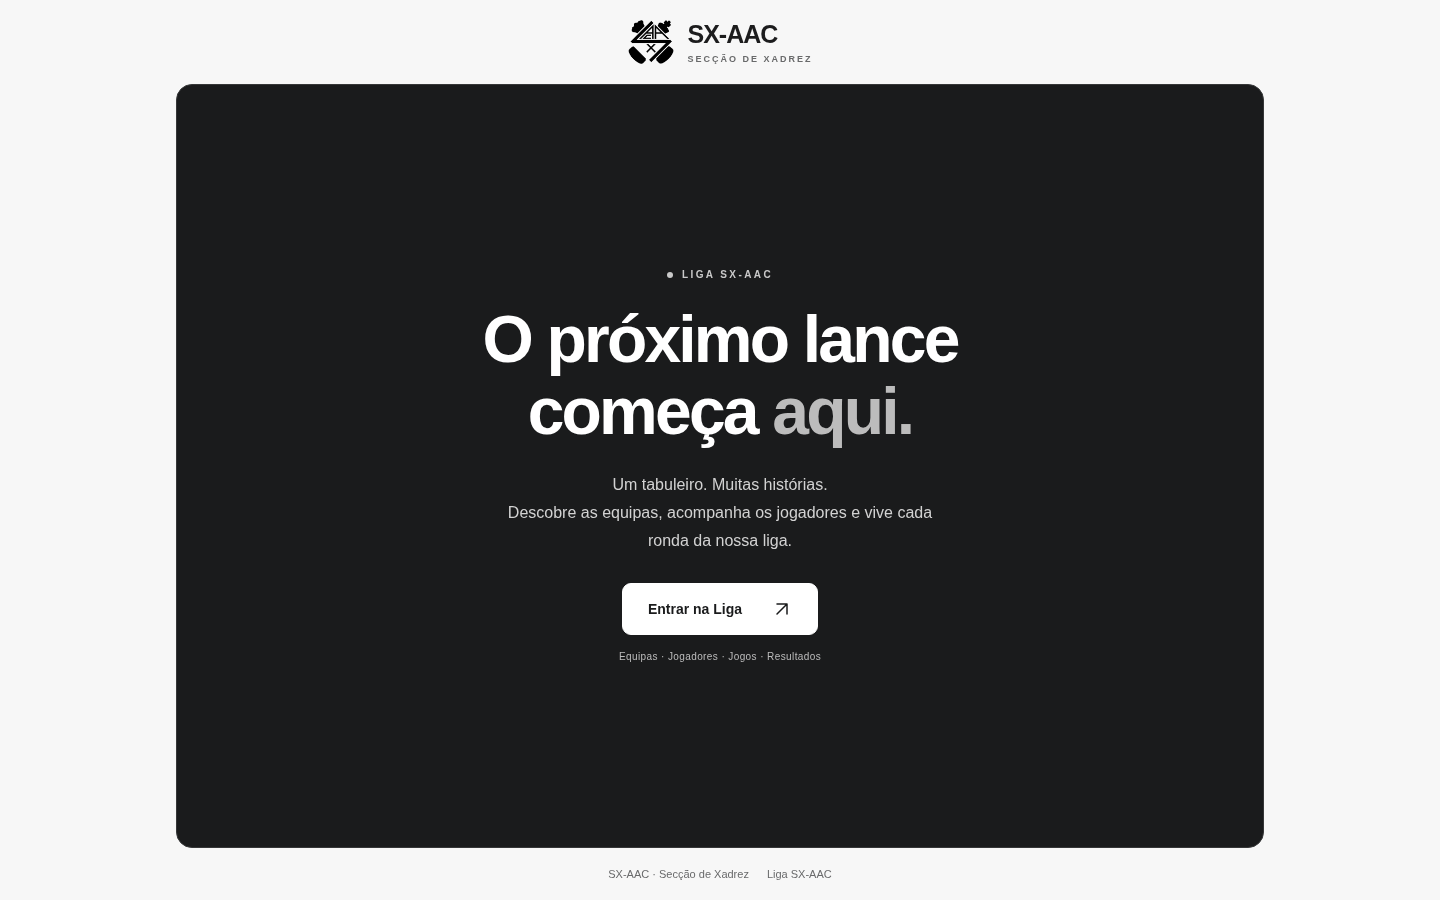
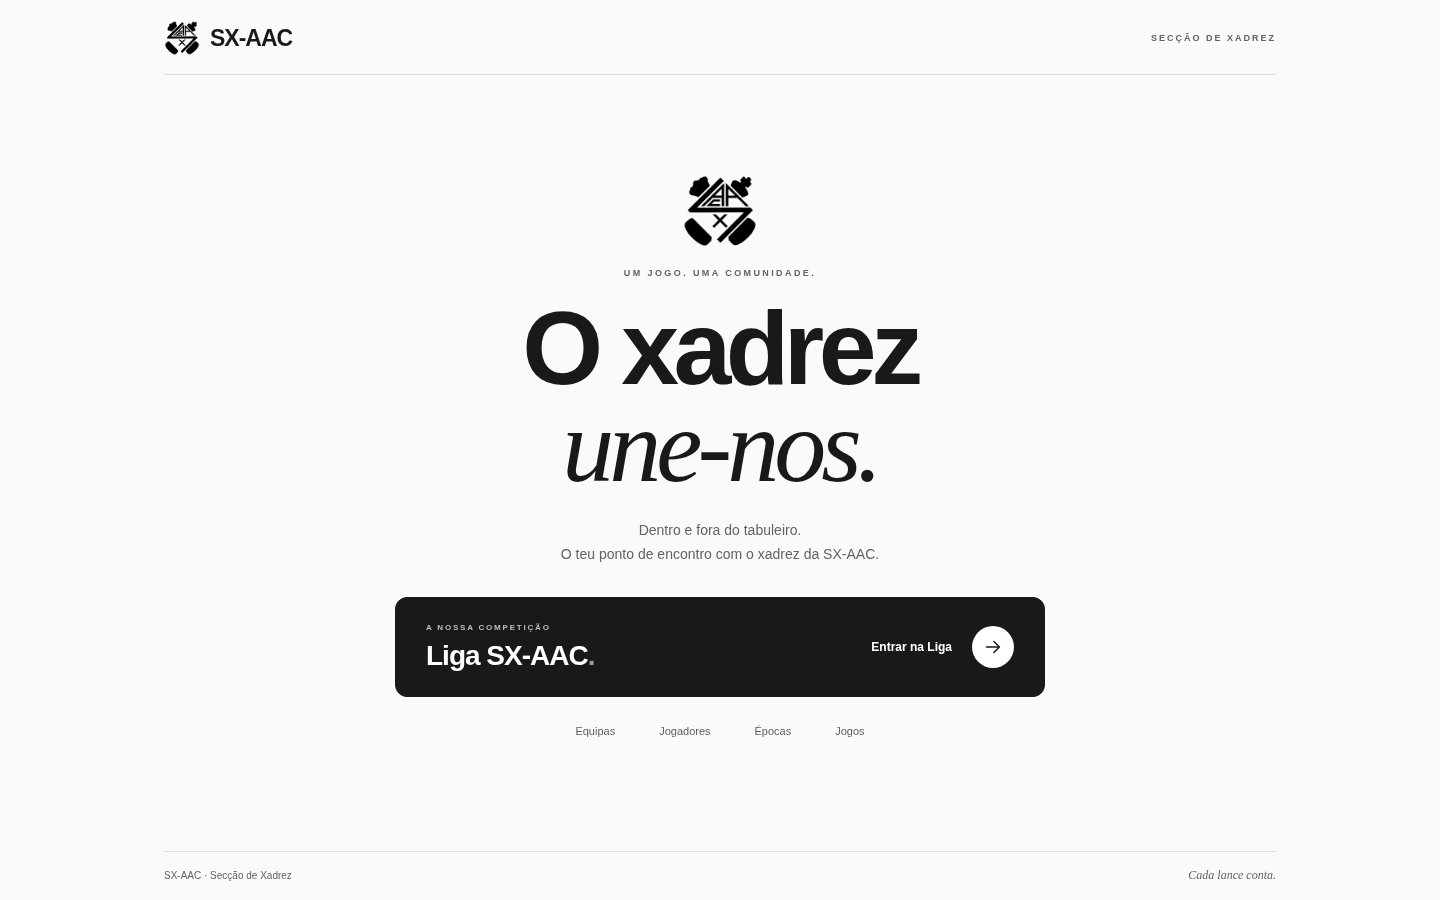
Overhaul club landing page with editorial typography and league portal

diff --git a/website/landing/style.css b/website/landing/style.css
@@ -1,26 +1,39 @@
-/* A compact, centered landing page using the League's monochrome palette. */
-:root{color-scheme:light;--paper:#f7f7f7;--ink:#1c1c1d;--muted:#696a6b;--line:#dedfe0}
+/* SX-AAC: a centered, monochrome entrance to the club and its League. */
+:root{color-scheme:light;--paper:#fafafa;--ink:#191919;--muted:#636363;--line:#dedede}
 *{box-sizing:border-box}
 body{margin:0;background:var(--paper);color:var(--ink);font-family:Arial,Helvetica,sans-serif;-webkit-font-smoothing:antialiased}
 a{color:inherit;text-decoration:none}
-a:focus-visible{outline:3px solid #747474;outline-offset:5px}
-.page{max-width:1200px;min-height:100svh;margin:auto;padding:clamp(12px,2vh,24px) clamp(16px,4vw,56px);display:grid;grid-template-rows:auto 1fr auto;gap:18px}
-.site-header{display:flex;align-items:center;justify-content:center}
-.brand{display:inline-flex;align-items:center;gap:12px;font-size:25px;font-weight:800;letter-spacing:-1px}
-.brand img{display:block;width:48px;height:48px;object-fit:contain;mix-blend-mode:multiply}
-.brand small{display:block;font-size:9px;letter-spacing:2px;margin-top:5px;color:var(--muted)}
-main{display:flex;align-items:center;justify-content:center;background:#1a1b1c;color:#fff;border:1px solid #363738;border-radius:16px;padding:clamp(20px,4vh,44px) 24px}
-.intro{width:100%;max-width:700px;text-align:center}
-.eyebrow{display:flex;align-items:center;justify-content:center;gap:9px;font-size:10px;font-weight:700;letter-spacing:2.4px;margin-bottom:24px;color:#c9c9c9}
-.eyebrow>span{width:6px;height:6px;background:#c9c9c9;border-radius:50%}
-h1{font-size:clamp(38px,5.4vw,66px);font-weight:750;letter-spacing:-2.8px;line-height:1.08;margin:0;overflow-wrap:break-word}
-h1 em{font-style:normal;color:#bcbcbc}
-.description{font-size:16px;line-height:1.75;color:#d2d2d2;max-width:450px;margin:24px auto 28px}
-.league-button{display:inline-flex;align-items:center;justify-content:center;gap:30px;background:#fff;color:#1a1b1c;border:1px solid #fff;border-radius:9px;padding:15px 25px;font-size:14px;font-weight:700;min-height:52px;transition:background .15s,border-color .15s}
-.league-button svg{flex-shrink:0}.league-button:hover{background:#e2e2e2;border-color:#e2e2e2}.league-button:focus-visible{outline-color:#fff}
-.button-note{font-size:10px;letter-spacing:.4px;color:#bcbcbc;margin:16px 0 0}
-footer{display:flex;align-items:center;justify-content:center;flex-wrap:wrap;gap:8px 18px;color:var(--muted);font-size:11px;line-height:1.5;text-align:center}
-footer a:hover{text-decoration:underline}
-@media(max-width:650px){.page{gap:14px}.brand{font-size:22px}.brand img{width:40px;height:40px}.brand small{font-size:8px;letter-spacing:1.5px}main{padding:24px 18px;border-radius:12px}.eyebrow{font-size:9px;margin-bottom:20px}h1{font-size:clamp(34px,8vw,48px);letter-spacing:-1.6px}.description{font-size:14px;line-height:1.65;margin:20px auto 24px}.league-button{width:100%;max-width:280px;gap:24px;min-height:48px;padding:13px 20px}.button-note{font-size:9px;letter-spacing:0;margin-top:14px}footer{font-size:10px}}
-@media(max-height:500px){.page{padding-block:10px;gap:10px}.brand{font-size:20px}.brand img{width:32px;height:32px}.brand small{font-size:8px;margin-top:3px}main{padding:12px 18px}.eyebrow{margin-bottom:8px;font-size:9px}h1{font-size:28px;letter-spacing:-1px}.description{font-size:12px;line-height:1.5;margin:8px auto 10px}.league-button{padding:10px 22px;min-height:44px}.button-note{font-size:9px;margin-top:10px}footer{font-size:9px}}
-@media(prefers-reduced-motion:reduce){.league-button{transition:none}}
+a:focus-visible{outline:3px solid #686868;outline-offset:5px}
+.page{width:min(100%,1240px);min-height:100svh;margin:auto;padding:20px clamp(20px,5vw,64px) 16px;display:grid;grid-template-rows:auto 1fr auto}
+.site-header{display:flex;align-items:center;justify-content:space-between;gap:20px;padding-bottom:18px;border-bottom:1px solid var(--line)}
+.brand{display:inline-flex;align-items:center;gap:10px;font-size:23px;font-weight:800;letter-spacing:-1px}
+.brand img{display:block;object-fit:contain;mix-blend-mode:multiply}
+.header-note{font-size:9px;letter-spacing:2px;font-weight:700;color:var(--muted)}
+main{width:100%;max-width:760px;justify-self:center;display:flex;flex-direction:column;align-items:center;justify-content:center;padding:26px 0;gap:30px}
+.intro{text-align:center;width:100%}
+.hero-emblem{display:block;margin:0 auto 19px;object-fit:contain;mix-blend-mode:multiply}
+.eyebrow{font-size:9px;font-weight:700;letter-spacing:2.4px;color:var(--muted);margin:0 0 22px}
+h1{font-size:clamp(62px,7.8vw,104px);font-weight:800;letter-spacing:-5.5px;line-height:.94;margin:0}
+h1 em{font-family:Georgia,'Times New Roman',serif;font-weight:400;letter-spacing:-5px}
+.description{font-size:14px;line-height:1.7;color:var(--muted);margin:24px 0 0}
+.league-entry{width:100%;max-width:650px}
+.league-button{display:flex;justify-content:space-between;align-items:center;gap:24px;padding:25px 30px;background:#191919;color:#fff;border:1px solid #191919;border-radius:12px;transition:background .18s,box-shadow .18s}
+.league-button:hover{background:#303030;box-shadow:0 8px 24px #00000012}
+.league-button:focus-visible{outline-offset:5px}
+.league-identity{display:flex;flex-direction:column;gap:9px}
+.league-label{font-size:8px;letter-spacing:1.8px;color:#bdbdbd;font-weight:700}
+.league-identity strong{font-size:28px;letter-spacing:-1px;line-height:1.1}
+.league-period{color:#9a9a9a}
+.league-action{display:flex;align-items:center;gap:20px;font-size:12px;font-weight:700;white-space:nowrap}
+.arrow-disc{width:42px;height:42px;border-radius:50%;display:grid;place-items:center;background:#fff;color:#191919}
+.quick-links{display:flex;justify-content:center;gap:8px;margin-top:12px}
+.quick-links a{display:flex;align-items:center;justify-content:center;min-height:44px;padding:0 18px;border-radius:6px;font-size:11px;color:#5e5e5e;transition:background .15s,color .15s}
+.quick-links a:hover{color:#191919;background:#eeeeee}
+footer{display:flex;align-items:center;justify-content:space-between;gap:16px;padding-top:14px;border-top:1px solid var(--line);font-size:10px;line-height:1.5;color:var(--muted)}
+.footer-motto{font-family:Georgia,'Times New Roman',serif;font-style:italic;font-size:12px}
+@media(max-width:650px){.page{padding:16px 22px 12px}.site-header{padding-bottom:14px}.brand{font-size:21px}.brand img{width:32px;height:32px}.header-note{font-size:7px;letter-spacing:1.3px}main{padding:22px 0;gap:26px}.hero-emblem{width:60px;height:60px;margin-bottom:17px}.eyebrow{font-size:8px;letter-spacing:1.8px;margin-bottom:20px}h1{font-size:clamp(60px,16vw,82px);letter-spacing:-3.5px}h1 em{letter-spacing:-3px}.description{font-size:12px;margin-top:20px;line-height:1.65}.league-button{padding:20px;gap:12px}.league-identity strong{font-size:23px}.league-label{font-size:7px;letter-spacing:1.1px}.league-action{font-size:10px;gap:10px}.arrow-disc{width:32px;height:32px}.arrow-disc svg{width:18px;height:18px}.quick-links{gap:0;margin-top:8px}.quick-links a{padding-inline:15px;font-size:10px}footer{font-size:9px}.footer-motto{font-size:10px}}
+@media(max-width:360px){.page{padding-inline:18px}.league-button{padding:18px 14px}.league-identity strong{font-size:21px}.league-action{gap:7px}.quick-links a{padding-inline:12px}}
+@media(max-height:780px){.page{padding-block:12px}.site-header{padding-bottom:10px}main{gap:18px;padding:18px 0}.hero-emblem{width:44px;height:44px;margin-bottom:12px}.eyebrow{margin-bottom:14px}h1{font-size:64px;letter-spacing:-3px}h1 em{letter-spacing:-3px}.description{margin-top:16px}.league-button{padding-block:18px}footer{padding-top:10px}}
+@media(max-height:570px){main{gap:12px;padding:12px 0}.hero-emblem{width:32px;height:32px;margin-bottom:8px}.eyebrow{margin-bottom:10px}h1{font-size:50px;letter-spacing:-2px}h1 em{letter-spacing:-2px}.description{font-size:12px;margin-top:12px}.league-button{padding-block:14px}.quick-links{margin-top:4px}}
+@media(max-height:450px){.page{padding-block:8px}.site-header{padding-bottom:8px}.brand{font-size:19px}.brand img{width:26px;height:26px}.hero-emblem{display:none}main{padding:10px 0;gap:10px}.eyebrow{margin-bottom:8px;font-size:8px}h1{font-size:42px;letter-spacing:-1.5px}h1 br{display:none}h1 em{letter-spacing:-2px}.description{font-size:11px;margin-top:8px}.description br{display:none}.league-button{padding:12px 20px}.league-label{font-size:7px}.league-identity{gap:5px}.league-identity strong{font-size:22px}.league-action{font-size:11px}.arrow-disc{width:32px;height:32px}.quick-links a{min-height:36px}footer{padding-top:8px;font-size:9px}.footer-motto{font-size:10px}}
+@media(prefers-reduced-motion:reduce){.league-button,.quick-links a{transition:none}}

diff --git a/website/landing/index.html b/website/landing/index.html
@@ -3,31 +3,40 @@
 <head>
   <meta charset="utf-8">
   <meta name="viewport" content="width=device-width, initial-scale=1">
-  <meta name="theme-color" content="#f7f7f7">
-  <meta name="description" content="SX-AAC — Secção de Xadrez. Acompanha as equipas, os jogadores e os resultados da Liga SX-AAC.">
+  <meta name="theme-color" content="#fafafa">
+  <meta name="description" content="SX-AAC — Secção de Xadrez. Um ponto de encontro para quem vive o jogo. Descobre a Liga SX-AAC, as equipas, os jogadores e os resultados.">
   <title>SX-AAC · Secção de Xadrez</title>
   <link rel="canonical" href="https://www.sx-aac.com/">
   <link rel="icon" href="/logo.png" type="image/png">
-  <link rel="stylesheet" href="/style.css?v=80">
+  <link rel="stylesheet" href="/style.css?v=81">
 </head>
 <body>
   <div class="page">
     <header class="site-header">
-      <a class="brand" href="/" aria-label="SX-AAC — início">
-        <img src="/logo.png" width="52" height="52" alt="">
-        <span>SX-AAC<small>SECÇÃO DE XADREZ</small></span>
-      </a>
+      <a class="brand" href="/" aria-label="SX-AAC — início"><img src="/logo.png" width="36" height="36" alt=""><span>SX-AAC</span></a>
+      <span class="header-note">SECÇÃO DE XADREZ</span>
     </header>
     <main>
       <section class="intro" aria-labelledby="page-title">
-        <div class="eyebrow"><span aria-hidden="true"></span> LIGA SX-AAC</div>
-        <h1 id="page-title">O próximo lance<br>começa <em>aqui.</em></h1>
-        <p class="description">Um tabuleiro. Muitas histórias.<br>Descobre as equipas, acompanha os jogadores e vive cada ronda da nossa liga.</p>
-        <a class="league-button" href="https://liga.sx-aac.com/">Entrar na Liga <svg aria-hidden="true" width="20" height="20" viewBox="0 0 24 24" fill="none" stroke="currentColor" stroke-width="1.8" stroke-linecap="round" stroke-linejoin="round"><path d="M6 18 18 6M6 6h12v12"/></svg></a>
-        <p class="button-note">Equipas · Jogadores · Jogos · Resultados</p>
+        <img class="hero-emblem" src="/logo.png" width="76" height="76" alt="" aria-hidden="true">
+        <p class="eyebrow">UM JOGO. UMA COMUNIDADE.</p>
+        <h1 id="page-title">O xadrez<br> <em>une-nos.</em></h1>
+        <p class="description">Dentro e fora do tabuleiro.<br>O teu ponto de encontro com o xadrez da SX-AAC.</p>
       </section>
+      <div class="league-entry">
+        <a class="league-button" href="https://liga.sx-aac.com/">
+          <span class="league-identity"><span class="league-label">A NOSSA COMPETIÇÃO</span><strong>Liga SX-AAC<span class="league-period" aria-hidden="true">.</span></strong></span>
+          <span class="league-action">Entrar na Liga <span class="arrow-disc"><svg aria-hidden="true" width="22" height="22" viewBox="0 0 24 24" fill="none" stroke="currentColor" stroke-width="1.6" stroke-linecap="round" stroke-linejoin="round"><path d="M5 12h14m-6-6 6 6-6 6"/></svg></span></span>
+        </a>
+        <nav class="quick-links" aria-label="Explorar a Liga">
+          <a href="https://liga.sx-aac.com/teams">Equipas</a>
+          <a href="https://liga.sx-aac.com/players">Jogadores</a>
+          <a href="https://liga.sx-aac.com/seasons">Épocas</a>
+          <a href="https://liga.sx-aac.com/games">Jogos</a>
+        </nav>
+      </div>
     </main>
-    <footer><span>SX-AAC · Secção de Xadrez</span><a href="https://liga.sx-aac.com/">Liga SX-AAC</a></footer>
+    <footer><span>SX-AAC · Secção de Xadrez</span><span class="footer-motto">Cada lance conta.</span></footer>
   </div>
 </body>
 </html>

diff --git a/website/templates/base.html b/website/templates/base.html
@@ -8,13 +8,13 @@
   <link rel="icon" href="/static/favicon.ico" sizes="any">
   <link rel="icon" type="image/png" href="/static/favicon-32.png" sizes="32x32">
   <link rel="apple-touch-icon" href="/static/apple-touch-icon.png">
-  <script src="/static/theme.js?v=80"></script>
-  <link rel="stylesheet" href="/static/style.css?v=80">
-  <link rel="stylesheet" href="/static/dark.css?v=80">
-  <link rel="stylesheet" href="/static/theme.css?v=80">
-  <script defer src="/static/i18n.js?v=80"></script>
-  <script defer src="/static/app.js?v=80"></script>
-  <script defer src="/static/board-settings.js?v=80"></script>
+  <script src="/static/theme.js?v=81"></script>
+  <link rel="stylesheet" href="/static/style.css?v=81">
+  <link rel="stylesheet" href="/static/dark.css?v=81">
+  <link rel="stylesheet" href="/static/theme.css?v=81">
+  <script defer src="/static/i18n.js?v=81"></script>
+  <script defer src="/static/app.js?v=81"></script>
+  <script defer src="/static/board-settings.js?v=81"></script>
   {% block page_assets %}{% endblock %}
 </head>
 <body{% if request.url.path == "/" %} class="home-theme"{% elif request.url.path == "/games" %} class="games-list-page"{% elif request.url.path.startswith("/games/") %} class="game-page"{% elif request.url.path.startswith("/matches/") %} class="match-page"{% endif %}>

diff --git a/website/templates/game_detail.html b/website/templates/game_detail.html
@@ -18,8 +18,8 @@
       </div>
     </div>
     <script type="application/json" id="replay-data">{{ replay|tojson }}</script>
-    <script defer src="/static/chess-replay.js?v=80"></script>
-    <script defer src="/static/board-resize.js?v=80"></script>
+    <script defer src="/static/chess-replay.js?v=81"></script>
+    <script defer src="/static/board-resize.js?v=81"></script>
   {% elif pgn_available %}
   <div class="game-matchup">
     <div class="game-side"><div class="game-piece-token white" aria-hidden="true">♔</div><span>WHITE</span><strong data-no-i18n>{% if game.white_user_id %}<a href="/users/{{ game.white_username|urlencode }}">{{ game.white_name }}</a>{% else %}{{ game.white_name }}{% endif %}</strong>{% if game.white_team_name %}<small><span>Team at match:</span> <span data-no-i18n>{{ game.white_team_name }}</span></small>{% endif %}</div>

diff --git a/website/templates/games.html b/website/templates/games.html
@@ -1,6 +1,6 @@
 {% extends 'base.html' %}
 {% block title %}Chess games{% endblock %}
-{% block page_assets %}<link rel="stylesheet" href="/static/games-directory.css?v=80"><script defer src="/static/games-directory.js?v=80"></script>{% endblock %}
+{% block page_assets %}<link rel="stylesheet" href="/static/games-directory.css?v=81"><script defer src="/static/games-directory.js?v=81"></script>{% endblock %}
 {% block content %}
 <div class="page-banner"><div class="container"><div class="eyebrow">THE PLAYING HALL</div><h1>Fixtures &amp; <em>results.</em></h1><p>Follow every club chess game, view results and replay recorded PGN games.</p></div></div>
 <section class="section container games-directory">

diff --git a/website/tests/test_v21_monochrome_informal.py b/website/tests/test_v21_monochrome_informal.py
@@ -28,8 +28,8 @@ def test_casual_portuguese_but_english_templates_unchanged(client):
     assert cat['Represent your team on the chessboard and follow your achievements throughout the league.'].startswith('Representa a tua equipa')
     assert 'O administrador tem de' in cat['Your account is registered. The administrator must add a chess player and link it to your username before you appear in the player directory and can enter transfer auctions.']
     assert 'pelos seus jogadores' in next(v for k,v in cat.items() if k.startswith('Every point counts. The team with the most combined player fantasy points leads'))
-    assert 'src="/static/i18n.js?v=80"' in client.get('/').text
-    assert 'href="/static/style.css?v=80"' in client.get('/').text
+    assert 'src="/static/i18n.js?v=81"' in client.get('/').text
+    assert 'href="/static/style.css?v=81"' in client.get('/').text
     assert 'Play. Compete.' in client.get('/').text
     assert 'Lead your team.' in client.get('/').text
     js = (ROOT/'static/i18n.js').read_text()

diff --git a/website/tests/test_v12_language_and_pieces.py b/website/tests/test_v12_language_and_pieces.py
@@ -12,7 +12,7 @@ def test_language_switch_is_in_global_nav_and_portuguese_is_default(client):
         assert response.status_code == 200
         html = response.text
         assert '<html lang="pt-PT">' in html
-        assert 'src="/static/i18n.js?v=80"' in html
+        assert 'src="/static/i18n.js?v=81"' in html
         assert 'id="language-toggle"' in html
         assert 'id="language-flag"' in html
         assert 'src="/static/flags/pt.svg"' in html and 'Português (Portugal)' in html

diff --git a/website/tests/test_v23_navigation_translation.py b/website/tests/test_v23_navigation_translation.py
@@ -20,4 +20,4 @@ def test_informal_portuguese_is_built_into_browser_bundle(client):
     catalogue = json.loads((ROOT/'static/pt-PT.json').read_text())
     assert catalogue['Join your club'] == 'Junta-te ao clube'
     assert '"Join your club":"Junta-te ao clube"' in client.get('/static/i18n.js').text
-    assert 'i18n.js?v=80' in client.get('/').text
+    assert 'i18n.js?v=81' in client.get('/').text

diff --git a/website/tests/test_v22_unified_theme.py b/website/tests/test_v22_unified_theme.py
@@ -26,4 +26,4 @@ def test_shared_monochrome_rules_on_other_pages(client):
     assert '.btn-primary{background:#1d1e1f' in css
     assert '.replay-square.light{background:#efefef' in css
     assert '.replay-square.dark{background:#949494' in css
-    assert 'style.css?v=80' in client.get('/players').text
+    assert 'style.css?v=81' in client.get('/players').text

diff --git a/scripts/package-website.py b/scripts/package-website.py
@@ -7,7 +7,7 @@ from zipfile import ZipFile, ZipInfo, ZIP_DEFLATED
 
 ROOT = Path(__file__).resolve().parents[1]
 WEBSITE = ROOT / 'website'
-VERSION = '80'
+VERSION = '81'
 
 
 def source_files():

diff --git a/README.md b/README.md
@@ -1,6 +1,6 @@
 # Liga SX-AAC
 
-This repository contains the **v80 league website** and the **1.1.0 mobile apps** for https://liga.sx-aac.com.
+This repository contains the **v81 league website** and the **1.1.0 mobile apps** for https://liga.sx-aac.com.
 
 ## Club landing page
 
@@ -8,7 +8,7 @@ The centered black-and-white page for **www.sx-aac.com** is in [`website/landing
 
 [Desktop preview](docs/previews/sx-aac-landing-desktop.png) · [Mobile preview](docs/previews/sx-aac-landing-mobile.png)
 
-## Website — v80
+## Website — v81
 
 The website source is in [`website/`](website/). V35 adds round filtering, explicit home-versus-away fixture headings, and season league standings using 3/1/0 match points; fantasy-point displays and adjustment controls are removed. V34 adds current team affiliation and join dates to profile headers, final match winner/draw highlights, a round schedule in Results, and corrected responsive dark backgrounds. V33 introduces captain terminology, compact profile-header career results, clearer seasonal squad cards with join/leave dates, simpler team sorting and stronger dark-mode section contrast. V32 permits shared FIDE IDs, adds all-season player wins/draws/losses, introduces persistent site-wide dark mode, renames the season calendar Results, and shows each archived squad member’s chess score/games played. V31 adds direct invitation cancellation in team management, a red remove-manager icon, and automatic availability after an administrator removes a manager, allowing reinvitation to the same team. Before kickoff, lineups are visible only within their own team; board pairings and associated game/PGN pages remain hidden from every viewer until kickoff. V30 adds team profile pictures uploaded, replaced and removed by the currently assigned manager. Pictures also appear in the directory, standings, fixtures and match scoreboards, and are included in SQLite backups. V29 adds a redesigned administration dashboard with dedicated management workspaces, the ♔ transfer-currency symbol, and green/red/grey results on player profiles. V28 adds gold, silver and bronze team-profile medals engraved with the season year. Completed seasons use 3/1/0 team-match points and head-to-head tiebreaks. V27 opens Seasons on the current season even before publication, adds a season dropdown, and redesigns round results and match scoreboards for desktop and mobile. V26 requires both username and email for password recovery, improves the recovery page, explains deactivated-account login failures, and renders Criar conta on Portuguese registration. A private VM generator adds two completed six-round demonstration seasons using current teams and rosters while retaining accounts. Account settings, automatic FIDE standard ratings, season scheduling, lineups, auctions, scoring, backups and public PGN replay remain available. Keep SMTP credentials private on the VM; the default public FIDE lookup needs no API key. See the hosting guide for upgrades and database generation.
 

diff --git a/website/HOSTING.md b/website/HOSTING.md
@@ -6,7 +6,7 @@ and downloads are public for visible games.
 
 ## Club landing page at www.sx-aac.com
 
-The v80 release includes a static Portuguese landing page in `landing/`. Its
+The v81 release includes a static Portuguese landing page in `landing/`. Its
 League button opens `https://liga.sx-aac.com/`. Caddy serves the landing page at
 `www.sx-aac.com` and redirects `sx-aac.com` to the www address, while retaining
 the existing League configuration.
@@ -40,7 +40,7 @@ instead of using the shared VM.
 For later changes affecting only the landing page, copy just the release's
 `landing/` directory into `/opt/clubdraft/landing/`. The existing Caddy directory
 mount serves the changed files immediately; the League does not need to stop or
-rebuild. The v80 landing page is centered, monochrome and has no chessboard.
+rebuild. The v81 landing page is centered, monochrome and has no chessboard.
 
 ## Upgrade an existing server
 
@@ -65,7 +65,7 @@ instructions, not evidence that this workspace has changed the live website.
    sudo docker compose down
    sudo rsync -a --exclude='/.env' --exclude='/data/' --exclude='/backups/' \
      --exclude='/secrets/' --exclude='/.venv/' --exclude='/__pycache__/' \
-     ~/chess-fantasy-league-v80/ /opt/clubdraft/
+     ~/chess-fantasy-league-v81/ /opt/clubdraft/
    sudo mkdir -p data backups
    sudo chown -R 10001:10001 data backups
    sudo chmod 700 data backups
@@ -88,7 +88,7 @@ instructions, not evidence that this workspace has changed the live website.
 
 ## V35 release extraction and configuration
 
-The standalone release ZIP has `chess-fantasy-league-v80/` at its root. GitHub's
+The standalone release ZIP has `chess-fantasy-league-v81/` at its root. GitHub's
 Download ZIP instead contains `liga-main/website/` (or `liga-COMMIT/website/`
 for a commit archive). Copy the directory containing
 `main.py`, `compose.yaml`, and `league_migrations.py`; copying `liga-main/` directly
@@ -99,10 +99,10 @@ Use a fresh extraction directory, validate it before downtime, and stop on error
 ```bash
 (
   set -e
-  ZIP="$HOME/chess-fantasy-league-v80.zip"
-  RELEASE_DIR="$(mktemp -d "$HOME/liga-v80-release.XXXXXX")"
+  ZIP="$HOME/chess-fantasy-league-v81.zip"
+  RELEASE_DIR="$(mktemp -d "$HOME/liga-v81-release.XXXXXX")"
   unzip -q "$ZIP" -d "$RELEASE_DIR"
-  SOURCE_DIR="$RELEASE_DIR/chess-fantasy-league-v80"
+  SOURCE_DIR="$RELEASE_DIR/chess-fantasy-league-v81"
   if [ ! -f "$SOURCE_DIR/main.py" ]; then
     for CANDIDATE in "$RELEASE_DIR"/liga-*/website; do
       if [ -f "$CANDIDATE/main.py" ]; then
